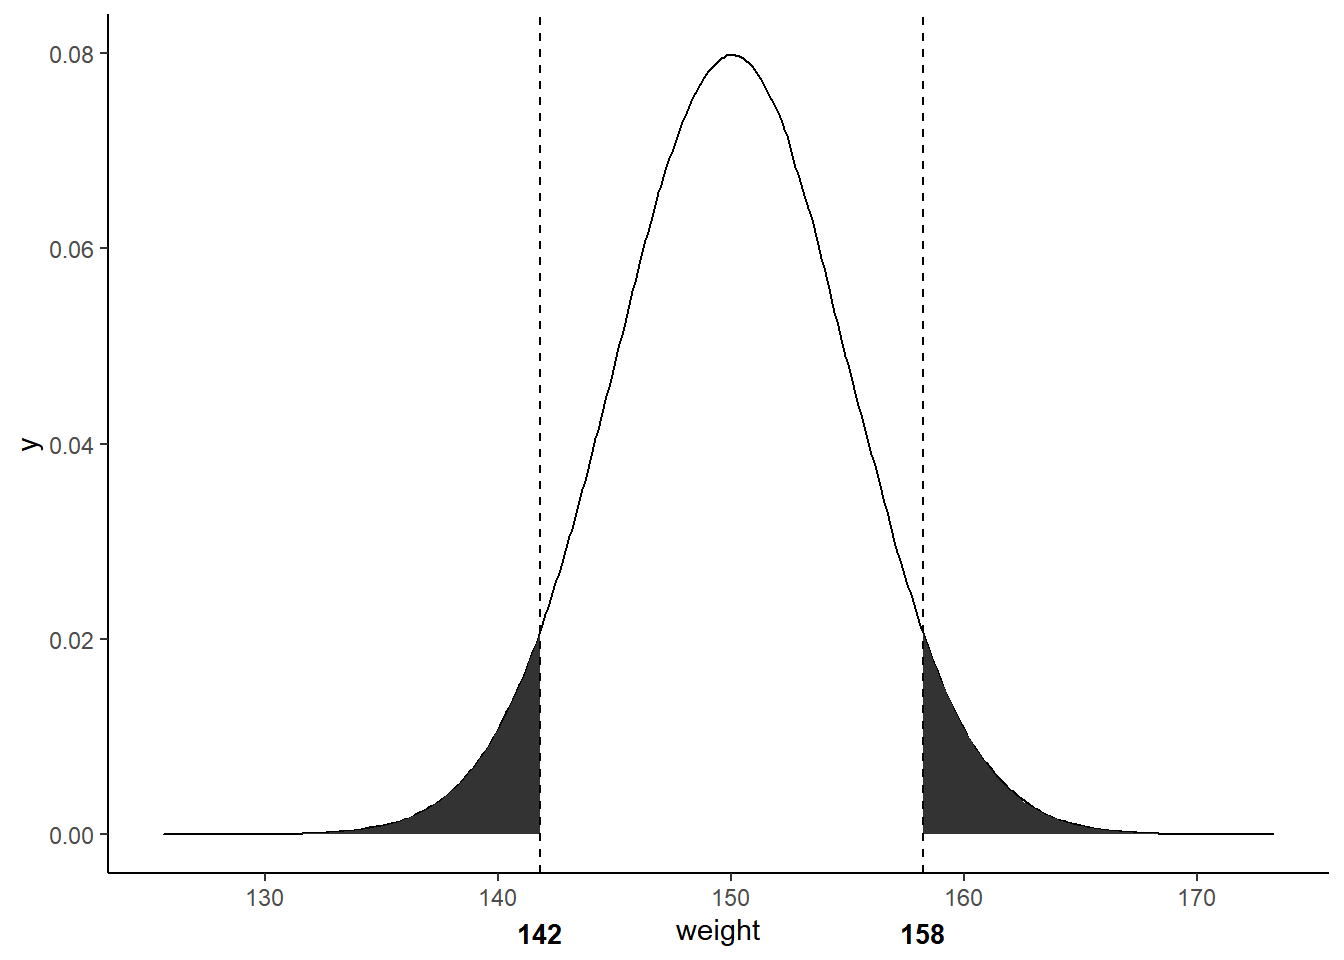
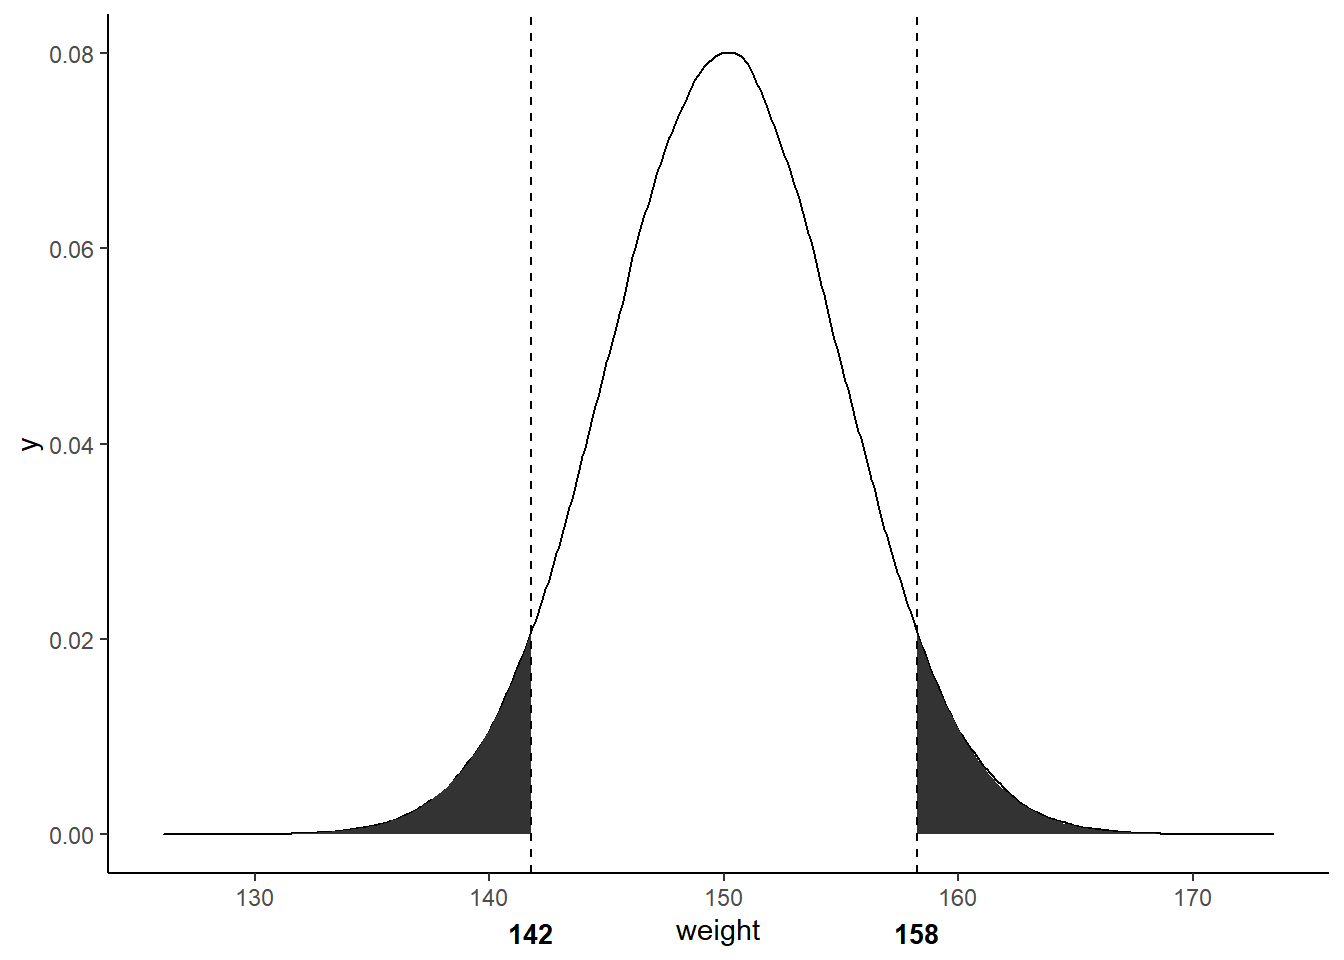
CLT

diff --git a/docs/probvslike.html b/docs/probvslike.html
@@ -286,6 +286,9 @@ $(document).ready(function () {
       <a href="probvslike.html">Probability vs Likelihood</a>
     </li>
     <li>
+      <a href="clt.html">Central Limit Theorem</a>
+    </li>
+    <li>
       <a href="mle.html">MLE</a>
     </li>
   </ul>
@@ -325,8 +328,8 @@ df &lt;- data.frame(weight = rnorm(n = 1000000, mean = m, sd = std))
 cutoff  &lt;- quantile(df$weight, .05)
 
 pnorm(cutoff, mean = m , sd = std) # Check area under the curve that&#39;s below the cutoff (pnorm() returns area under the curve)</code></pre>
-<pre><code>##         5% 
-## 0.05035415</code></pre>
+<pre><code>##        5% 
+## 0.0500904</code></pre>
 <pre class="r"><code>g1 &lt;- ggplot(df, aes(x = weight)) +
   geom_density() +
   stat_function(fun = dnorm, args = list(mean = m, sd = std), xlim = c(min(df$weight), cutoff), geom = &quot;area&quot;) +

diff --git a/docs/ci.html b/docs/ci.html
@@ -286,6 +286,9 @@ $(document).ready(function () {
       <a href="probvslike.html">Probability vs Likelihood</a>
     </li>
     <li>
+      <a href="clt.html">Central Limit Theorem</a>
+    </li>
+    <li>
       <a href="mle.html">MLE</a>
     </li>
   </ul>

diff --git a/docs/pivotwider.html b/docs/pivotwider.html
@@ -286,6 +286,9 @@ $(document).ready(function () {
       <a href="probvslike.html">Probability vs Likelihood</a>
     </li>
     <li>
+      <a href="clt.html">Central Limit Theorem</a>
+    </li>
+    <li>
       <a href="mle.html">MLE</a>
     </li>
   </ul>

diff --git a/docs/pvalue.html b/docs/pvalue.html
@@ -286,6 +286,9 @@ $(document).ready(function () {
       <a href="probvslike.html">Probability vs Likelihood</a>
     </li>
     <li>
+      <a href="clt.html">Central Limit Theorem</a>
+    </li>
+    <li>
       <a href="mle.html">MLE</a>
     </li>
   </ul>

diff --git a/docs/regularized.html b/docs/regularized.html
@@ -286,6 +286,9 @@ $(document).ready(function () {
       <a href="probvslike.html">Probability vs Likelihood</a>
     </li>
     <li>
+      <a href="clt.html">Central Limit Theorem</a>
+    </li>
+    <li>
       <a href="mle.html">MLE</a>
     </li>
   </ul>

diff --git a/docs/mle.html b/docs/mle.html
@@ -288,6 +288,9 @@ $(document).ready(function () {
     <li>
       <a href="mle.html">MLE</a>
     </li>
+    <li>
+      <a href="clt.html">Central Limit Theorem</a>
+    </li>
   </ul>
 </li>
       </ul>
